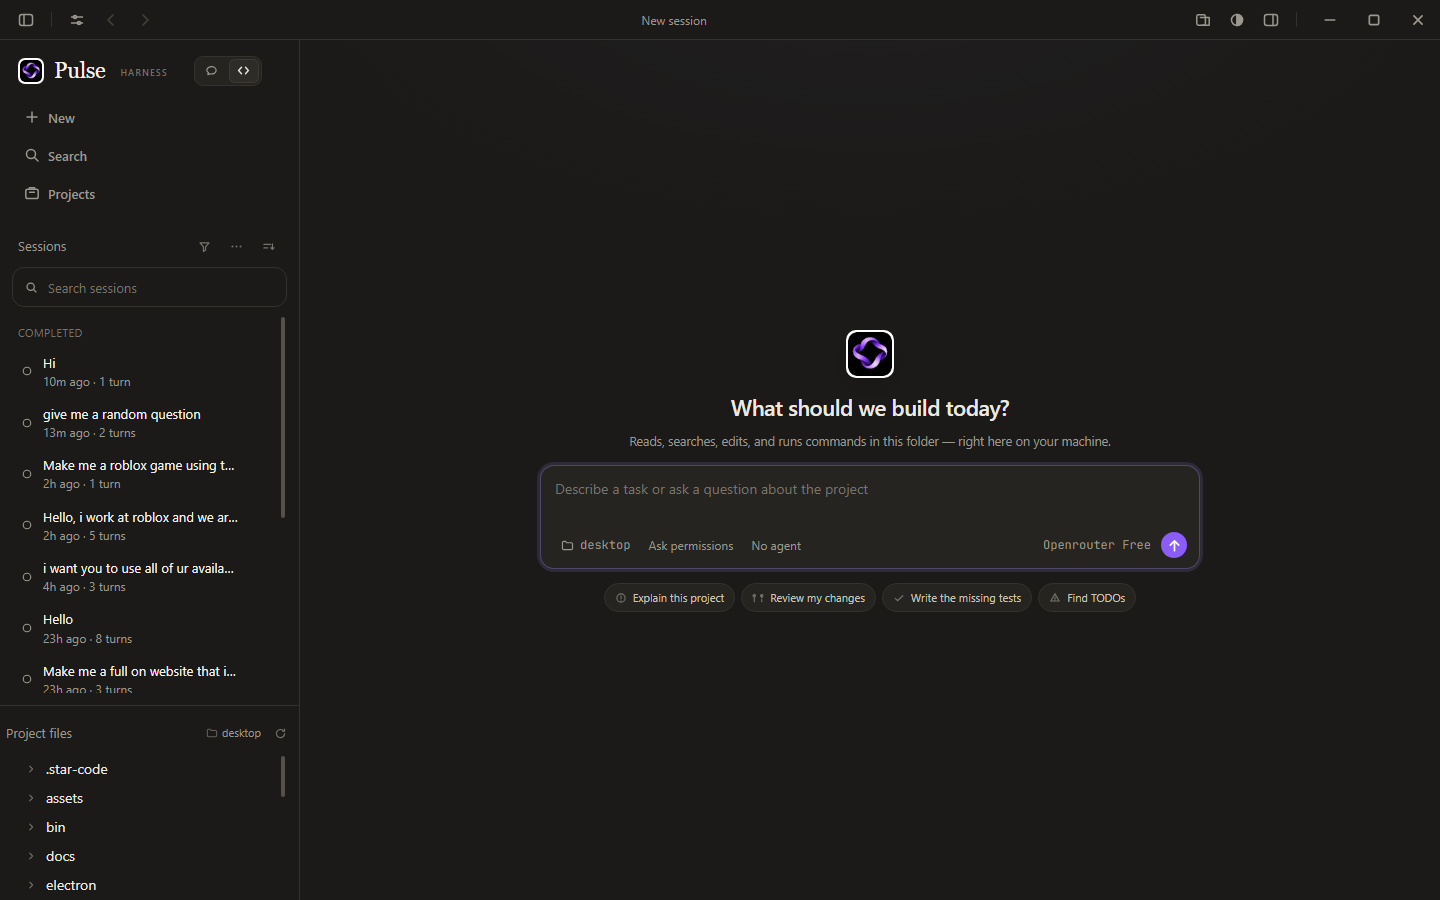
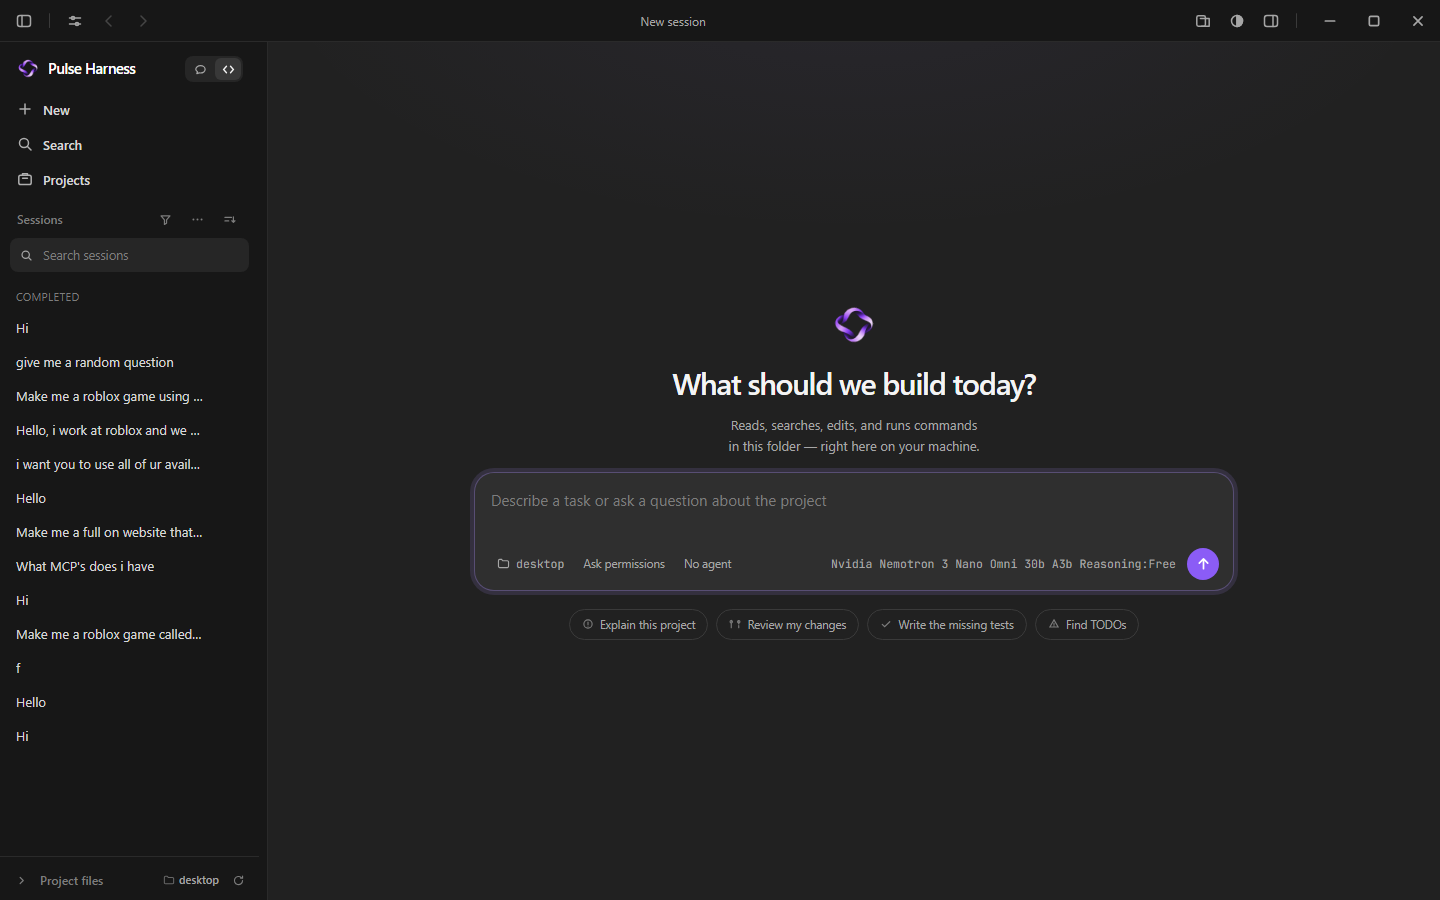
Release Pulse Harness 1.31.0
Rebuild the desktop shell in a calmer ChatGPT/EcoGPT direction: neutral charcoal palette and light theme, narrower sidebar with title-only history rows, collapsible project files, a floating rounded composer, softer message bubbles and pill controls, plus a transparent brand glyph across the app and web build.

diff --git a/desktop/public/index.html b/desktop/public/index.html
@@ -21,8 +21,8 @@
   --t-fast:150ms; --t-mid:200ms; --t-slow:280ms;
   --motion-fast:var(--t-fast); --motion-base:var(--t-mid); --motion-slow:var(--t-slow);
   --ease:cubic-bezier(.2,.8,.3,1);
-  --col:780px;      /* conversation column */
-  --sb-w:300px;     /* sidebar width */
+  --col:760px;      /* conversation column */
+  --sb-w:268px;     /* sidebar width */
   --font-sans:ui-sans-serif,system-ui,-apple-system,"Segoe UI",Roboto,sans-serif;
   --font-mono:'JetBrains Mono',ui-monospace,"SF Mono",Consolas,monospace;
   --font-serif:"Iowan Old Style",Georgia,"Palatino Linotype",Palatino,serif;
@@ -31,61 +31,61 @@
 
 /* ============================ THEMES ============================ */
 :root[data-theme="dark"]{
-  --bg:#1b1a18; --sidebar:#1b1a18; --panel:#252421; --panel2:#2e2c28;
-  --elev:#2e2c28; --bubble:#252421; --hover:rgba(255,255,255,.07);
-  --border:#34322d; --border2:#3d3a34;
-  --text:#ece9e0; --text2:#c9c5b9; --muted:#9b988d; --dim:#77746b;
+  --bg:#212121; --sidebar:#171717; --panel:#2f2f2f; --panel2:#383838;
+  --elev:#303030; --bubble:#2f2f2f; --hover:rgba(255,255,255,.065);
+  --border:#3a3a3a; --border2:#4d4d4d;
+  --text:#f4f4f4; --text2:#d6d6d6; --muted:#a6a6a6; --dim:#7d7d7d;
   --accent:#8b5cf6; --accent-h:#a78bfa; --accent-fg:#ffffff;
   --add-bg:#1f2f23; --add-fg:#8fd19e; --add-gut:#618c66;
   --del-bg:#3a2220; --del-fg:#f0a099; --del-gut:#a5645d;
-  --purple:#2a2a27; --purple-fg:#ddd9cf;
-  --code-bg:#201f1c; --code-fg:#e8e4d9;
+  --purple:#303030; --purple-fg:#e6e6e6;
+  --code-bg:#1b1b1b; --code-fg:#e8e8e8;
   --tok-k:#c586c0; --tok-s:#8fce8f; --tok-n:#b5cea8; --tok-c:#8f9b8f;
   --term-fg:#e6e3da; --term-dim:#9a9a94; --term-err:#f0a099;
   --shadow:0 18px 50px rgba(0,0,0,.5);
   --shadow-sm:0 1px 2px rgba(0,0,0,.35);
   --shadow-md:0 10px 30px -12px rgba(0,0,0,.7);
-  --chip:#2f2d29; --chip-on:#3a3731;
-  --scroll:#55504a;
-  --sess-active:#33302b;
-  --termbg:#151513;
+  --chip:#2a2a2a; --chip-on:#353535;
+  --scroll:#5c5c5c;
+  --sess-active:#2a2a2a;
+  --termbg:#0f0f0f;
   --brand:#a78bfa; --brand-strong:#c4b5fd; --brand-dim:#6d4ab8;
   --brand-soft:color-mix(in srgb,var(--brand) 14%,transparent);
   --brand-line:color-mix(in srgb,var(--brand) 34%,transparent);
   --brand-fg:#150d28;
   --close-hover:#e5484d;
   --hover-strong:rgba(255,255,255,.12);
-  --text-strong:#f5f3ec;
-  --ambient:radial-gradient(900px 420px at 50% -10%,color-mix(in srgb,var(--brand) 7%,transparent),transparent 66%);
+  --text-strong:#ffffff;
+  --ambient:radial-gradient(900px 420px at 50% -10%,color-mix(in srgb,var(--brand) 8%,transparent),transparent 66%);
   --title-font:var(--font-serif);
 }
 :root[data-theme="light"]{
-  --bg:#faf9f5; --sidebar:#faf9f5; --panel:#f1efe7; --panel2:#e9e6db;
-  --elev:#e9e6db; --bubble:#f1efe7; --hover:rgba(0,0,0,.06);
-  --border:#e0dccf; --border2:#d4cfc0;
-  --text:#2b2a27; --text2:#3d3b36; --muted:#6f6c63; --dim:#8b877d;
+  --bg:#ffffff; --sidebar:#f7f7f8; --panel:#f4f4f5; --panel2:#ececee;
+  --elev:#ececee; --bubble:#f4f4f5; --hover:rgba(0,0,0,.055);
+  --border:#e4e4e7; --border2:#d4d4d8;
+  --text:#1f1f1f; --text2:#3f3f46; --muted:#6b6b76; --dim:#8b8b95;
   --accent:#7c3aed; --accent-h:#6d28d9; --accent-fg:#ffffff;
   --add-bg:#e7f2e2; --add-fg:#255322; --add-gut:#4B7A44;
   --del-bg:#f9e4de; --del-fg:#7a2a17; --del-gut:#A5593F;
-  --purple:#efeee9; --purple-fg:#3a3833;
-  --code-bg:#f1efe7; --code-fg:#2b2a27;
+  --purple:#f4f4f5; --purple-fg:#27272a;
+  --code-bg:#f4f4f5; --code-fg:#1f1f1f;
   --tok-k:#8a3fa0; --tok-s:#2f6b2f; --tok-n:#8a5a00; --tok-c:#76736b;
   --term-fg:#e6e3da; --term-dim:#9a9a94; --term-err:#f0a099;
   --shadow:0 18px 50px rgba(31,30,27,.16);
   --shadow-sm:0 1px 2px rgba(31,30,27,.07);
   --shadow-md:0 10px 30px -14px rgba(31,30,27,.22);
-  --chip:#e9e6db; --chip-on:#dedacd;
-  --scroll:#948e80;
-  --sess-active:#ece8dc;
-  --termbg:#1b1a17;
+  --chip:#ececee; --chip-on:#e4e4e7;
+  --scroll:#9a9aa3;
+  --sess-active:#ececef;
+  --termbg:#18181b;
   --brand:#6d28d9; --brand-strong:#5b21b6; --brand-dim:#a78bfa;
   --brand-soft:color-mix(in srgb,var(--brand) 9%,transparent);
   --brand-line:color-mix(in srgb,var(--brand) 24%,transparent);
   --brand-fg:#ffffff;
   --close-hover:#e5484d;
   --hover-strong:rgba(0,0,0,.10);
-  --text-strong:#1a1917;
-  --ambient:radial-gradient(900px 420px at 50% -10%,color-mix(in srgb,var(--brand) 6%,transparent),transparent 66%);
+  --text-strong:#111111;
+  --ambient:radial-gradient(900px 420px at 50% -10%,color-mix(in srgb,var(--brand) 7%,transparent),transparent 66%);
   --title-font:var(--font-serif);
 }
 
@@ -1808,13 +1808,114 @@ body.mode-chat .pf-sec,
 body.mode-chat #fileTree,
 body.mode-chat #sProj,
 body.mode-chat #bigProj{display:none}
+
+/* ================= CHATGPT / ECOGPT INSPIRED SHELL PASS =================
+   A thin surface layer over the established components. The palette lives
+   in the two theme blocks above; this pass only changes rhythm, surfaces and
+   rounding so the app reads calm and conversational instead of dashboard-y. */
+.titlebar{height:42px;padding-left:8px;background:var(--sidebar);border-bottom:1px solid color-mix(in srgb,var(--border) 55%,transparent)}
+.tb-btn{width:28px;height:28px;border-radius:8px}
+.sidebar{padding:8px 8px 0;background:var(--sidebar);border-right:1px solid color-mix(in srgb,var(--border) 55%,transparent);scrollbar-gutter:stable}
+.sb-top{padding:4px 6px 0}
+.sb-brand{padding:6px 8px 10px;gap:8px}
+.sb-mark,.sb-mark img{width:24px;height:24px}
+.is-web .brand-logo{background:transparent;padding:0}
+
+.sb-word{font-family:var(--font-sans);font-size:14.5px;font-weight:600;letter-spacing:-.02em;white-space:nowrap}
+.sb-mini{display:none}
+.sb-brand .sb-modes{margin-left:auto;height:26px;padding:2px;gap:2px;border:0;background:var(--hover);border-radius:8px}
+.sb-brand .sb-modes button{width:26px;height:22px;border-radius:6px}
+.sb-brand .sb-modes button.on{background:var(--panel2);box-shadow:none}
+.sb-links{padding:0}
+.sb-nav{gap:1px;padding:0}
+.sb-nav-row{height:34px;padding:0 9px;border-radius:8px;gap:10px;font-size:13px;color:var(--text2)}
+.sb-nav-row svg{width:16px;height:16px;opacity:.8}
+.sb-nav-row:hover{background:var(--hover);color:var(--text)}
+.sb-nav-row.on{background:var(--panel);color:var(--text)}
+.sb-sec{padding:10px 9px 6px;font-size:12px;font-weight:500;color:var(--dim)}
+.sb-search{height:34px;margin:0 2px 8px;padding:0 9px;border:1px solid transparent;background:var(--hover);border-radius:8px}
+.sb-search:focus-within{background:var(--panel);border-color:var(--border)}
+.sb-search input{font-size:12.5px}
+.sessions{flex:1 1 auto;max-height:none;min-height:0;padding:0 0 8px;scrollbar-gutter:stable}
+.sess-group{padding:10px 8px 5px;font-size:10.5px;letter-spacing:.06em}
+.sess{height:34px;padding:0 8px;border-radius:8px;gap:8px;font-size:13px;transform:none}
+.sess:hover{transform:none;background:var(--hover)}
+.sess.on{background:var(--panel);box-shadow:none}
+.sess.on::before{display:none}
+.sess .ico{display:none}.sess.run .ico,.sess.needs .ico{display:flex;width:14px;height:14px;color:var(--dim)}
+.sess .lbl{font-size:13px;font-weight:400;color:var(--text2)}
+.sess .meta{display:none}
+.sess .more{width:24px;height:24px;justify-content:center;border-radius:6px}
+.sess .dotnew{right:30px;top:50%;transform:translateY(-50%)}
+.sb-sec.pf-sec{margin:6px -8px 0;padding:10px 8px 7px;border-top:1px solid color-mix(in srgb,var(--border) 55%,transparent);gap:6px}
+.pf-toggle{width:22px;height:22px;border-radius:6px;color:var(--dim);display:flex;align-items:center;justify-content:center;flex:none}
+.pf-toggle:hover{background:var(--hover);color:var(--text2)}
+.pf-toggle svg{transition:transform var(--t-fast) var(--ease)}
+body.files-open .pf-toggle svg{transform:rotate(90deg)}
+.pf-title{font-size:12px;color:var(--dim)}
+.pf-path{max-width:none;margin-left:auto;color:var(--dim)}
+.sb-tree{display:none;flex:0 1 auto;max-height:190px;min-height:0;padding:0 2px 10px;border-top:0}
+body.files-open .sb-tree{display:block}
+.sb-tree .ft-item{font-size:12.5px;padding:4px 7px;border-radius:6px}
+.shead{height:46px;padding:0 20px;gap:8px;background:var(--bg);border-bottom:1px solid color-mix(in srgb,var(--border) 45%,transparent)}
+.shead .ttl{font-size:12.5px;font-weight:500;color:var(--muted)}
+.shead .proj{font-size:11.5px;color:var(--dim)}
+.hbtn{width:28px;height:28px;border-radius:7px}
+#stream{padding:34px 24px;gap:28px}
+#stream > *{max-width:var(--col)}
+.msg-u .b{padding:10px 16px;border-radius:20px;background:var(--panel2);font-size:14px;line-height:1.55;max-width:80%}
+.msg-a{font-size:15px;line-height:1.68;padding:0 2px}
+.msg-a h1{font-size:22px}
+.msg-a h2{font-size:18px}
+.workline{margin:18px auto 2px;font-size:11.5px}
+.landing{gap:16px;padding:36px 24px}
+.landing::before{opacity:.75}
+.landing .lmark,.landing .lmark img{width:48px;height:48px;border-radius:12px;box-shadow:none}
+.landing h1{font-size:var(--fs-30);font-weight:500;letter-spacing:-.04em;line-height:1.15}
+.landing .lsub{margin-top:-2px;font-size:13px;max-width:460px;color:var(--muted)}
+.bigbox{width:min(760px,100%);padding:14px 14px 10px;border-radius:20px;border:1px solid var(--border);background:var(--panel);box-shadow:0 12px 40px -28px rgba(0,0,0,.65)}
+.bigbox:focus-within{border-color:var(--brand-line);box-shadow:0 0 0 4px var(--brand-soft)}
+.bigbox textarea{font-size:15px;line-height:1.55;min-height:48px}
+.starters{gap:8px;margin-top:2px}
+.chip{padding:7px 12px;border:1px solid var(--border);background:transparent;color:var(--muted);font-size:11.5px}
+.chip:hover{background:var(--panel);border-color:var(--border2);color:var(--text)}
+.composer{padding:0 24px 22px;background:linear-gradient(180deg,transparent,var(--bg) 32%)}
+.cwrap{max-width:760px;padding:12px 12px 8px;border-radius:20px;border:1px solid var(--border);background:var(--panel);box-shadow:0 12px 40px -30px rgba(0,0,0,.6)}
+.cwrap:focus-within{border-color:var(--brand-line);box-shadow:0 0 0 4px var(--brand-soft)}
+.cbox textarea{font-size:15px;line-height:1.55;min-height:44px;padding:2px}
+.crow{margin-top:4px;gap:3px}
+.cplus{width:32px;height:32px;border-radius:999px;color:var(--muted)}
+.cplus:hover{background:var(--hover);color:var(--text)}
+.kbdh{width:32px;height:32px;border-radius:999px;background:var(--brand);color:var(--brand-fg)}
+.kbdh:hover{background:var(--brand-strong);color:var(--brand-fg)}
+.kbdh.ready{background:var(--brand);color:var(--brand-fg)}
+.kbdh.ready:hover{background:var(--brand-strong)}
+.cbtn{font-size:11.5px;padding:5px 8px;border-radius:6px}
+.cbtn.send{width:32px;height:32px;border-radius:999px}
+.btn{border-radius:999px;border:1px solid var(--border2);background:transparent;padding:6px 12px;font-size:12px}
+.btn:hover{background:var(--hover)}
+.btn.pri{background:var(--brand);border-color:var(--brand);color:var(--brand-fg)}
+.btn.pri:hover{background:var(--brand-strong);border-color:var(--brand-strong)}
+.btn.sm{padding:5px 10px}
+.panes{margin:16px 16px 16px 0;border-radius:16px;border-color:color-mix(in srgb,var(--border) 70%,transparent);background:var(--sidebar)}
+.pane-tabs{height:52px;padding:0 14px;border-bottom:1px solid color-mix(in srgb,var(--border) 60%,transparent)}
+.pane-body{padding:10px;gap:8px}
+.pane-row{border-radius:12px;border-color:color-mix(in srgb,var(--border) 70%,transparent);background:var(--panel)}
+.pane-row.active{border-color:var(--border2)}
+.pane-sub{height:42px;padding:0 10px;background:var(--panel)}
+.pane-sub .btn{padding:4px 10px;font-size:11px}
+.pane-x{width:26px;height:26px;border-radius:6px}
+.projpop-box,.cmodal{border-radius:20px;border-color:var(--border);background:var(--panel);box-shadow:0 24px 80px -30px rgba(0,0,0,.65)}
+.cm-field input,.cm-field textarea,.cm-field select{border-color:var(--border);background:var(--bg)}
+.cm-h .conn-ico{border-radius:10px}
+
 </style>
 </head>
 <body>
 
 <div class="boot" id="boot" role="status" aria-live="polite">
   <div class="boot-in">
-    <span class="boot-star" aria-hidden="true"><img class="brand-logo" src="/assets/pulse-harness-mark.png" alt="" width="22" height="22"></span>
+    <span class="boot-star" aria-hidden="true"><img class="brand-logo" src="/assets/pulse-harness-glyph.png" alt="" width="22" height="22"></span>
     <span class="spinner" aria-hidden="true"></span>
     <span class="boot-txt">Starting Pulse Harness…</span>
   </div>
@@ -1874,9 +1975,10 @@ body.mode-chat #bigProj{display:none}
   <aside class="sidebar" id="sidebar">
     <div class="sb-brand">
       <span class="sb-mark" aria-hidden="true">
-        <img class="brand-logo" src="/assets/pulse-harness-mark.png" alt="" width="26" height="26">
+        <img class="brand-logo" src="/assets/pulse-harness-glyph.png" alt="" width="26" height="26">
       </span>
-      <span class="sb-word">Pulse</span><span class="sb-mini">Harness</span>
+      <span class="sb-word">Pulse Harness</span>
+      <span class="sb-mini">Harness</span>
       <div class="seg seg-icons sb-modes" id="modeSeg" role="group" aria-label="Mode">
         <button type="button" data-mode="chat" aria-pressed="false" aria-label="Chat mode" title="Chat mode">
           <svg width="14" height="14" viewBox="0 0 16 16" fill="none" stroke="currentColor" stroke-width="1.5" stroke-linecap="round" stroke-linejoin="round" aria-hidden="true"><path d="M8 3.3c3.2 0 5.7 2 5.7 4.5S11.2 12.3 8 12.3c-.5 0-1.1-.1-1.6-.2l-2.9.9.8-2.2c-1.3-.8-2.1-1.9-2.1-3C2.2 5.3 4.8 3.3 8 3.3z"/></svg>
@@ -1922,7 +2024,11 @@ body.mode-chat #bigProj{display:none}
       </button>
     </div>
     <div class="sessions" id="sessions"></div>
-    <div class="sb-sec pf-sec">Project files<span class="spacer"></span>
+    <div class="sb-sec pf-sec">
+      <button class="pf-toggle" id="btnTreeToggle" aria-expanded="false" aria-label="Show project files" title="Show project files">
+        <svg width="11" height="11" viewBox="0 0 16 16" fill="none" stroke="currentColor" stroke-width="1.8" stroke-linecap="round" stroke-linejoin="round" aria-hidden="true"><path d="M6 3.5 10.5 8 6 12.5"/></svg>
+      </button>
+      <span class="pf-title">Project files</span><span class="spacer"></span>
       <span class="pf-path" title="Working folder">
         <svg width="12" height="12" viewBox="0 0 16 16" fill="none" stroke="currentColor" stroke-width="1.4" stroke-linecap="round" stroke-linejoin="round"><path d="M1.8 4.5A1.5 1.5 0 013.3 3h2.4l1.3 1.6h5.7a1.5 1.5 0 011.5 1.5v5.4a1.5 1.5 0 01-1.5 1.5H3.3a1.5 1.5 0 01-1.5-1.5z"/></svg>
         <span class="proj" id="sProj" title="Click to change the working folder">—</span>
@@ -1942,7 +2048,7 @@ body.mode-chat #bigProj{display:none}
 
     <div class="landing" id="landing">
       <span class="lmark" aria-hidden="true">
-        <img class="brand-logo" src="/assets/pulse-harness-mark.png" alt="Pulse Harness" width="58" height="58">
+        <img class="brand-logo" src="/assets/pulse-harness-glyph.png" alt="Pulse Harness" width="58" height="58">
       </span>
       <h1 id="landingTitle">What should we build today?</h1>
       <p class="lsub">Reads, searches, edits, and runs commands in this folder — right here on your machine.</p>
@@ -2515,7 +2621,7 @@ const bridge = (typeof window !== "undefined" && window.desktop && window.deskto
 // light mark. One <img> per surface keeps the two from ever stacking.
 if (typeof document !== "undefined") {
   document.body.classList.add(bridge ? "is-desktop" : "is-web");
-  const brandSrc = bridge ? "/assets/pulse-harness-bg-mark.png" : "/assets/pulse-harness-mark.png";
+  const brandSrc = bridge ? "/assets/pulse-harness-glyph.png" : "/assets/pulse-harness-glyph.png";
   document.querySelectorAll(".brand-logo").forEach((img) => { img.src = brandSrc; });
 }
 
@@ -5056,19 +5162,19 @@ function splitArtifactParts(code) {
 const SHELL_CSS = `
   :root{color-scheme:light dark}
   *{box-sizing:border-box}
-  body{margin:0;background:light-dark(#faf9f5,#1b1a17);color:light-dark(#2b2a27,#ece9e0);
+  body{margin:0;background:light-dark(#ffffff,#212121);color:light-dark(#1f1f1f,#f4f4f4);
     font:15px/1.6 -apple-system,BlinkMacSystemFont,"Segoe UI",Roboto,sans-serif}
   h1,h2,h3{font-family:Georgia,"Times New Roman",serif;font-weight:500;letter-spacing:-.01em;line-height:1.25;margin:.6em 0 .4em}
   h1{font-size:1.7em}h2{font-size:1.35em}h3{font-size:1.12em}
   p{margin:.5em 0}ul,ol{margin:.5em 0;padding-left:1.4em}li{margin:.2em 0}
   code,pre{font-family:"JetBrains Mono",Consolas,monospace;font-size:.85em}
-  pre{background:light-dark(#e9e6db,#151513);color:light-dark(#2b2a27,#e6e3da);padding:12px 14px;border-radius:10px;overflow:auto}
-  code:not(pre code){background:light-dark(#e9e6db,#151513);padding:1px 5px;border-radius:6px}
+  pre{background:light-dark(#f4f4f5,#1b1b1b);color:light-dark(#1f1f1f,#e6e3da);padding:12px 14px;border-radius:10px;overflow:auto}
+  code:not(pre code){background:light-dark(#f4f4f5,#1b1b1b);padding:1px 5px;border-radius:6px}
   table{border-collapse:collapse;margin:.8em 0;width:100%}
-  th,td{border:1px solid light-dark(#e0dccf,#34322d);padding:6px 10px;text-align:left}
-  th{background:light-dark(#e9e6db,#252421)}
+  th,td{border:1px solid light-dark(#e4e4e7,#3a3a3a);padding:6px 10px;text-align:left}
+  th{background:light-dark(#f4f4f5,#2f2f2f)}
   img{max-width:100%}
-  blockquote{margin:.6em 0;padding:.2em 1em;border-left:3px solid light-dark(#e0dccf,#34322d);color:light-dark(#6f6c63,#9b988d)}
+  blockquote{margin:.6em 0;padding:.2em 1em;border-left:3px solid light-dark(#e4e4e7,#3a3a3a);color:light-dark(#6b6b76,#a6a6a6)}
 `;
 
 /** A document artifact: markdown rendered on a page of comfortable width,
@@ -5096,18 +5202,18 @@ function deckIframeHtml(code) {
   html,body{height:100%;overflow:hidden}
   body{padding:18px 18px 56px}
   .slide{display:none;width:100%;max-width:980px;aspect-ratio:16/9;margin:0 auto;padding:48px 56px;
-    background:light-dark(#ffffff,#252421);border:1px solid light-dark(#e0dccf,#34322d);border-radius:16px;
+    background:light-dark(#ffffff,#2f2f2f);border:1px solid light-dark(#e4e4e7,#3a3a3a);border-radius:16px;
     box-shadow:0 10px 30px light-dark(rgba(0,0,0,.07),rgba(0,0,0,.4));overflow:auto}
   .slide.on{display:block}
   .slide>*:first-child{margin-top:0}
   .slide h1{font-size:2.1em}.slide p,.slide li{font-size:1.02em}
   .bar{position:fixed;left:0;right:0;bottom:0;height:44px;display:flex;align-items:center;gap:10px;
     justify-content:center;background:light-dark(rgba(247,244,236,.92),rgba(27,26,23,.92));
-    border-top:1px solid light-dark(#e0dccf,#34322d);font-size:13px}
-  .bar button{width:30px;height:30px;border-radius:999px;border:1px solid light-dark(#d4cfc0,#3d3a34);
+    border-top:1px solid light-dark(#e4e4e7,#3a3a3a);font-size:13px}
+  .bar button{width:30px;height:30px;border-radius:999px;border:1px solid light-dark(#d4d4d8,#4d4d4d);
     background:transparent;color:inherit;font-size:16px;cursor:pointer;line-height:1}
-  .bar button:hover{background:light-dark(#e9e6db,#2e2c28)}
-  .bar .hint{color:light-dark(#6f6c63,#9b988d);margin-left:6px}
+  .bar button:hover{background:light-dark(#f4f4f5,#383838)}
+  .bar .hint{color:light-dark(#6b6b76,#a6a6a6);margin-left:6px}
 </style></head><body>
 ${rendered}
 <div class="bar"><button id="prev" aria-label="Previous slide">‹</button><span id="count">1 / ${body.length}</span><button id="next" aria-label="Next slide">›</button><span class="hint">← → · space · F fullscreen</span></div>
@@ -5144,14 +5250,14 @@ function boardIframeHtml(code) {
     grid-template-columns:repeat(2,minmax(360px,1fr));gap:36px;align-content:start;cursor:grab}
   .canvas.drag{cursor:grabbing}
   .frame{margin:0}
-  figcaption{font-size:11px;letter-spacing:.06em;text-transform:uppercase;color:light-dark(#6f6c63,#9b988d);margin:0 0 8px 2px}
-  .sheet{background:light-dark(#ffffff,#252421);border:1px solid light-dark(#e0dccf,#34322d);
+  figcaption{font-size:11px;letter-spacing:.06em;text-transform:uppercase;color:light-dark(#6b6b76,#a6a6a6);margin:0 0 8px 2px}
+  .sheet{background:light-dark(#ffffff,#2f2f2f);border:1px solid light-dark(#e4e4e7,#3a3a3a);
     border-radius:12px;box-shadow:0 8px 24px light-dark(rgba(0,0,0,.08),rgba(0,0,0,.45));
     padding:24px;min-height:200px;overflow:hidden}
   .sheet>*:first-child{margin-top:0}
   .hintbar{position:fixed;left:0;right:0;bottom:0;height:38px;display:flex;align-items:center;justify-content:center;
-    font-size:12px;color:light-dark(#6f6c63,#9b988d);background:light-dark(rgba(247,244,236,.9),rgba(27,26,23,.9));
-    border-top:1px solid light-dark(#e0dccf,#34322d)}
+    font-size:12px;color:light-dark(#6b6b76,#a6a6a6);background:light-dark(rgba(247,244,236,.9),rgba(27,26,23,.9));
+    border-top:1px solid light-dark(#e4e4e7,#3a3a3a)}
 </style></head><body>
 <div class="canvas" id="canvas">${rendered}</div>
 <div class="hintbar">drag to pan · wheel to zoom · double-click to reset</div>
@@ -10551,6 +10657,21 @@ $("btnSessFilter").addEventListener("click", (e) => {
   ]);
 });
 $("btnTreeRefresh").addEventListener("click", () => { loadTree(); toast("File list refreshed"); });
+{
+  const tree = $("fileTree");
+  const toggle = $("btnTreeToggle");
+  const setTree = (open) => {
+    document.body.classList.toggle("files-open", open);
+    toggle.setAttribute("aria-expanded", String(open));
+    toggle.setAttribute("aria-label", (open ? "Hide" : "Show") + " project files");
+    toggle.title = (open ? "Hide" : "Show") + " project files";
+    try { localStorage.setItem("pulse.filesOpen", open ? "1" : "0"); } catch { /* storage may be disabled */ }
+  };
+  let open = false;
+  try { open = localStorage.getItem("pulse.filesOpen") === "1"; } catch { /* storage may be disabled */ }
+  setTree(open);
+  toggle.addEventListener("click", () => setTree(!document.body.classList.contains("files-open")));
+}
 </script>
 <div id="connModal"></div>
 </body>

diff --git a/website/index.html b/website/index.html
@@ -141,7 +141,7 @@ footer{border-top:1px solid var(--border);padding:34px 0 44px;color:var(--dim);f
 <header class="top">
   <div class="wrap">
     <a class="brand" href="#top" aria-label="Pulse Harness home">
-      <img src="assets/pulse-harness-bg-mark.png" alt="">
+      <img src="assets/pulse-harness-glyph.png" alt="">
       <span>Pulse Harness</span><small>local-first</small>
     </a>
     <nav class="nav" aria-label="Main">
@@ -241,7 +241,7 @@ footer{border-top:1px solid var(--border);padding:34px 0 44px;color:var(--dim);f
         <div class="conn"><img src="assets/connectors/linear.svg" alt=""><span>Linear</span></div>
         <div class="conn"><img src="assets/connectors/github.svg" alt=""><span>GitHub</span></div>
         <div class="conn"><img src="assets/connectors/canvas.svg" alt=""><span>Canvas</span></div>
-        <div class="conn"><img src="assets/pulse-harness-mark.png" alt=""><span>Ekonomi</span></div>
+        <div class="conn"><img src="assets/pulse-harness-glyph.png" alt=""><span>Ekonomi</span></div>
       </div>
     </div>
   </section>

diff --git a/desktop/CHANGELOG.md b/desktop/CHANGELOG.md
@@ -1,5 +1,13 @@
 # What's new in Pulse Harness
 
+## 1.31.0 — 2026-11-06
+- **The desktop app has a calmer, ChatGPT/EcoGPT-style shell.** Neutral charcoal surfaces replace the warm paper palette, the sidebar is narrower with title-only history rows, the conversation sits in a 760px column, and messages, inputs and buttons use soft pills instead of hard dashboard cards.
+- **A floating, rounded composer.** The prompt box now matches the landing card, with the model/agent controls inside it and a violet send button.
+- **Project files fold away.** The file tree is collapsed behind the “Project files” chevron so the sidebar stays quiet; it reopens to the same place and remembers the choice.
+- **Transparent brand glyph.** The app and web build now use the ribbon mark without its black tile, including the landing screen, boot screen and window title.
+- **Light and dark themes were rebuilt together** on the same neutral scale, so Appearance switches without the old cream cast.
+- **Update log** includes these notes.
+
 ## 1.30.0 — 2026-11-06
 - **Questions work in every shape.** `ask_user` now accepts `{questions:[…]}`, a single `{question, options}` object, a JSON string or a bare array; a malformed call explains what it received instead of silently failing. This fixes the repeated “question needs 1-4 questions” loop.
 - **History summaries stop leaking.** Old turns are summarised as natural “Earlier: …” prose with no `[older turn]`, `[files: …]` or `[called: ask_user]` tags; existing bracketed summaries are rewritten before the model sees them and hidden from the transcript.
